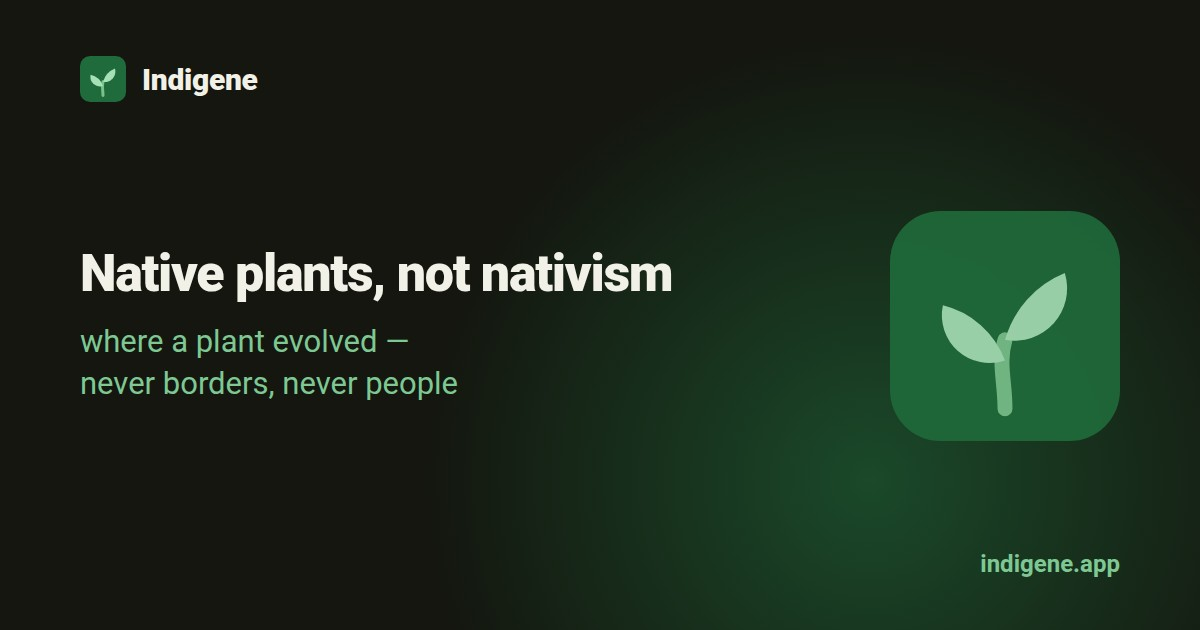
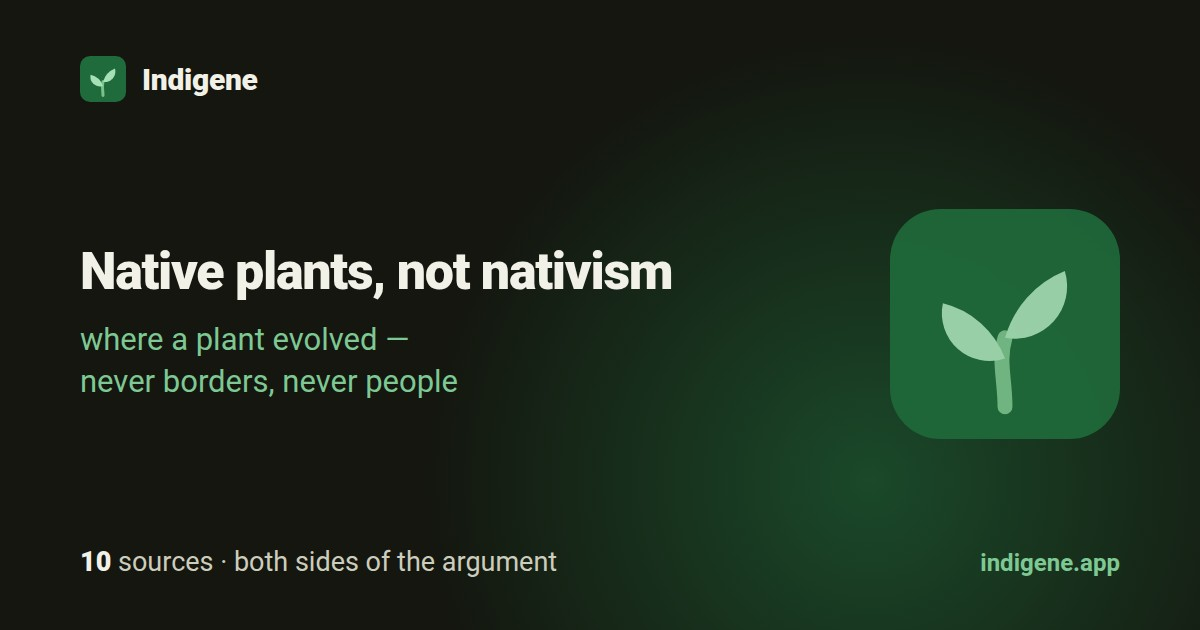
Share cards for the wildlife group pages; source count on /native's
The five group pages (/wildlife/butterflies, moths, bees, birds, mammals)
were the only shareable pages still previewing with the generic site
card. They were left out because "a drawing of one animal would be a lie
about the rest", but the drawing on these cards is the kind glyph, which
was never one animal. gen-wildlife-cards.mjs now draws a card per group:
the group's title, its glyph, and its counts the way its page counts
them (mapped animals from wildlifeIndex(), the regions they live in, and
distinct native and host plants, so one oak feeding forty moths counts
once). Card counts were checked against each page's lede.

The /native card gets the bottom figures line its sibling crops card has
("10 sources · both sides of the argument"), counted from SOURCES in
steps/native.ts. Every prerendered page but the home page (whose card is
the site card) now has its own preview.

Claude-Session: https://claude.ai/code/session_01HYYrQK7eEHwmvXgqV3xTcT

diff --git a/CHANGELOG.md b/CHANGELOG.md
@@ -33,6 +33,13 @@ subtitle on the What's new page.
 
 ### Added
 
+- Wildlife: share a group page, like all the butterflies, and the link now
+  previews with its own picture and counts instead of the plain Indigene
+  card. https://indigene.app/wildlife/butterflies
+- Internal: `gen-wildlife-cards.mjs` draws one card per group page (kind glyph,
+  mapped count, regions, distinct native and host plants) and `prerender.mjs`
+  points the five group pages at them; the `/native` page card gains a source
+  count, read from `steps/native.ts`.
 - Plants: how sure we are of a plant's figures is now a three-bar meter
   instead of a paragraph. Tap it for
   [what each level means](https://indigene.app/confidence).
